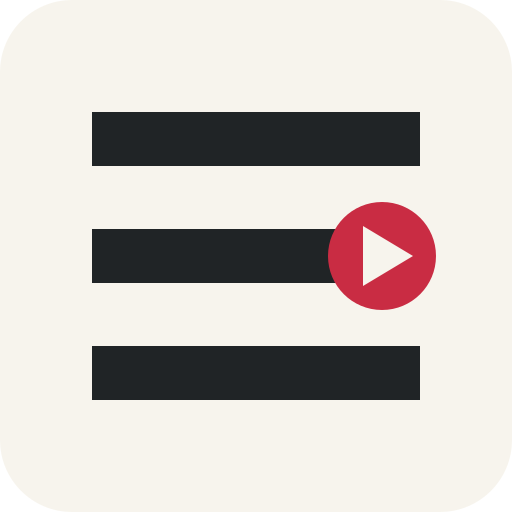
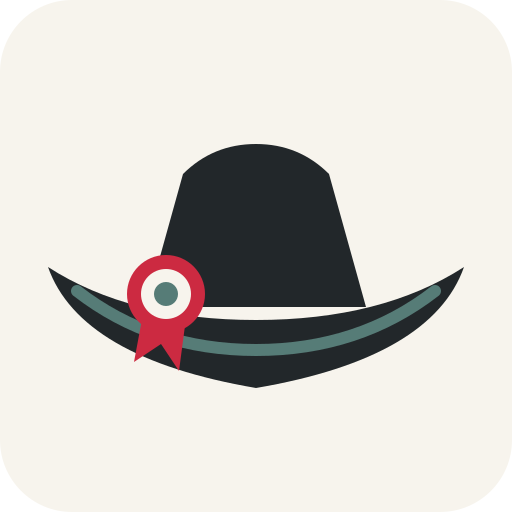
feat: adopt bicorn identity across reader

Changed region(s): [[0.0938, 0.2188, 0.9062, 0.7812]]

diff --git a/site/index.html b/site/index.html
@@ -5,9 +5,9 @@
     <meta name="viewport" content="width=device-width, initial-scale=1">
     <meta
       name="description"
-      content="A weekly, e-reader-friendly security digest delivered directly to your Google Drive."
+      content="Security reading for the native reMarkable app, weekly PDF download, or automatic Google Drive delivery."
     >
-    <title>Estafette — Weekly security reading</title>
+    <title>Estafette — Security reading, your way</title>
     <link rel="icon" href="favicon.svg" type="image/svg+xml">
     <link rel="stylesheet" href="styles.css">
     <script src="config.js" defer></script>
@@ -20,13 +20,13 @@
           <span class="brand-mark" aria-hidden="true"></span>
           <span class="brand-copy">
             <strong>Estafette</strong>
-            <small>weekly security relay</small>
+            <small>security reading relay</small>
           </span>
         </a>
         <nav class="site-nav" aria-label="Main navigation">
           <a href="#latest">Latest</a>
           <a href="editions.html">All editions</a>
-          <a href="#how-it-works">How it works</a>
+          <a href="#how-it-works">Ways to read</a>
           <a href="remarkable/">reMarkable</a>
           <a href="privacy.html">Privacy</a>
         </nav>
@@ -137,25 +137,25 @@
       <section id="how-it-works" class="process-section frame" aria-labelledby="how-title">
         <div class="section-heading">
           <div>
-            <p class="section-number">03 / How it works</p>
-            <h2 id="how-title">A three-step relay</h2>
+            <p class="section-number">03 / Choose your route</p>
+            <h2 id="how-title">Three ways to read</h2>
           </div>
         </div>
         <ol class="process-grid">
           <li>
             <span>01</span>
-            <h3>Connect</h3>
-            <p>Approve the narrow Google Drive permission. Nothing else in your Drive is exposed.</p>
+            <h3>App</h3>
+            <p>Use the native Paper Pro reader for a daily feed with full articles and images cached offline.</p>
           </li>
           <li>
             <span>02</span>
-            <h3>Receive</h3>
-            <p>An Estafette folder is created in your Drive and remembered for future editions.</p>
+            <h3>PDF</h3>
+            <p>Download the weekly e-reader edition directly from the website—no account or setup required.</p>
           </li>
           <li>
             <span>03</span>
-            <h3>Read</h3>
-            <p>The new e-reader-ready PDF arrives automatically each week. No inbox required.</p>
+            <h3>Sync</h3>
+            <p>Connect Google Drive once and receive each new weekly PDF automatically in your Estafette folder.</p>
           </li>
         </ol>
       </section>

diff --git a/site/styles.css b/site/styles.css
@@ -121,7 +121,7 @@ code {
   height: 50px;
   margin-right: 20px;
   border-radius: 5px;
-  background: var(--foreground) url("favicon.svg") center / 50px 50px no-repeat;
+  background: url("favicon.svg") center / 50px 50px no-repeat;
 }
 
 .brand-copy {

diff --git a/docs/REMARKABLE_READER.md b/docs/REMARKABLE_READER.md
@@ -1,6 +1,6 @@
 # Estafette reader for reMarkable Paper Pro
 
-Status: **public beta (`0.1.0-beta.2`)**. Do not publish `v1.0.0` until the
+Status: **public beta (`0.1.0-beta.3`)**. Do not publish `v1.0.0` until the
 device acceptance checklist at the end of this document passes on the target
 Paper Pro.
 
